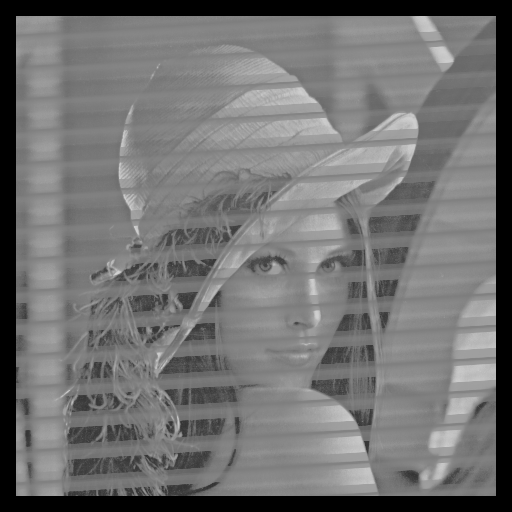
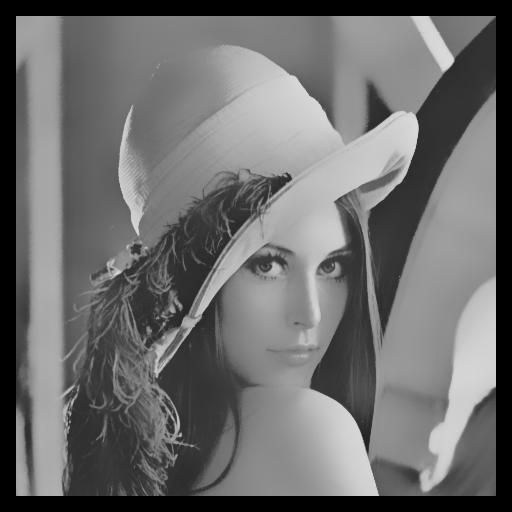
fixed unsigned int subtraction issue

diff --git a/bilateral_filter/bilateral/src/bilateral.c b/bilateral_filter/bilateral/src/bilateral.c
@@ -22,7 +22,7 @@
 //}
 
 data_t d(unsigned int eps[2], unsigned int x[2]) {
-    return hypot((double)(eps[0]-x[0]), (double)(eps[1]-x[1]));
+    return hypot((double)(eps[0])-(double)(x[0]), (double)(eps[1])-(double)(x[1]));
 }
 
 /**
